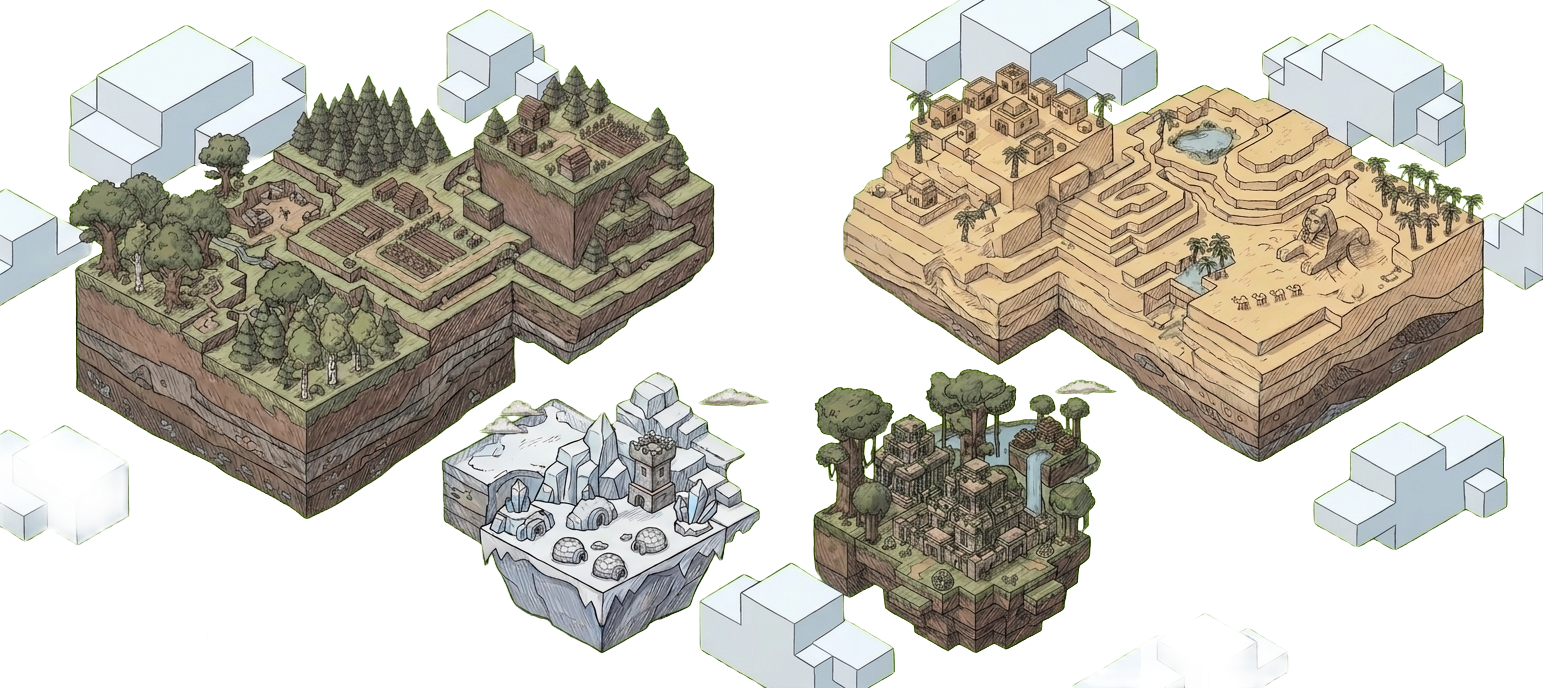
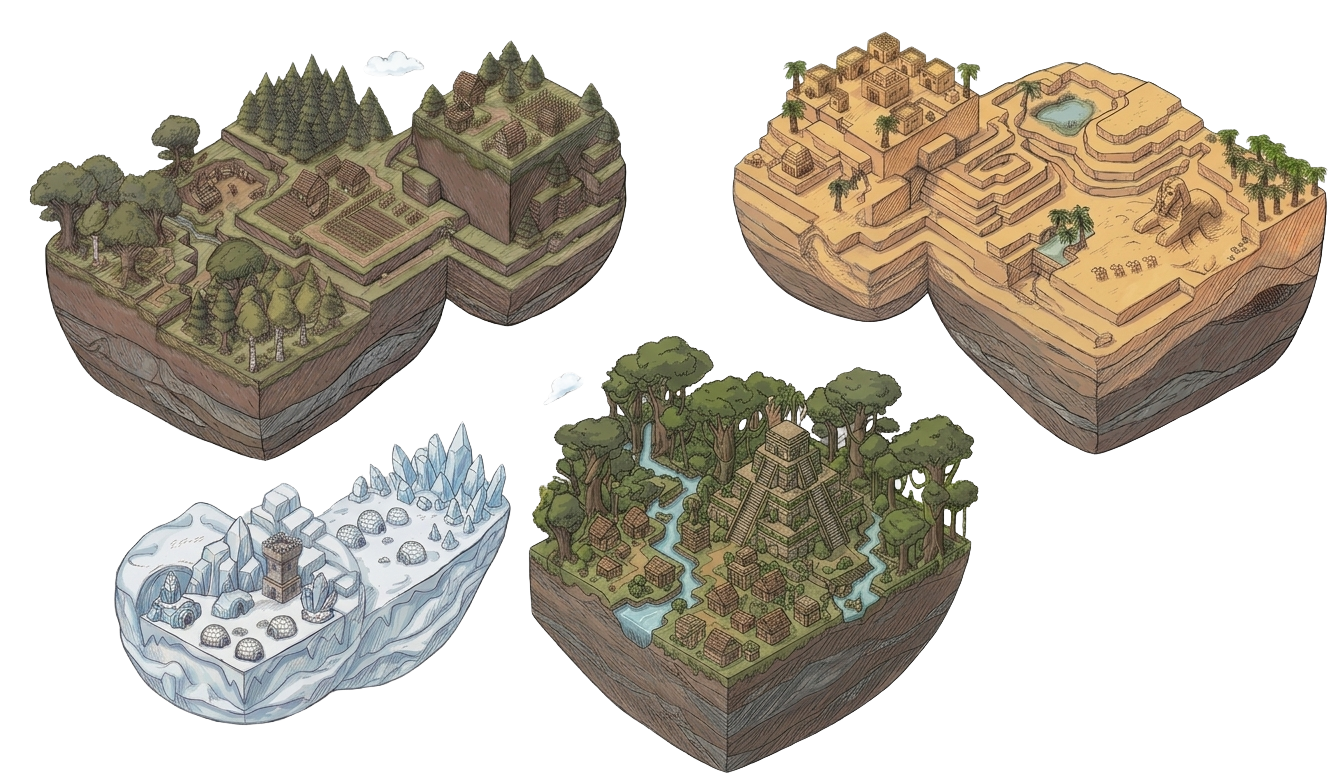
Events: removed-bg image + spring pop-in animation
- Swap to removed-background island image (transparent bg)
- Re-enable blurred fill technique: same image blurred/darkened fills
  the panel, sharp contained version sits centred on top
- cardPop keyframe: scale 0.86 + translateY + slight rotation, springs
  to 1.03 overshoot then settles — sketch/bounce vibe
- nth-child stagger delays so multiple cards cascade in

diff --git a/public/css/new-design.css b/public/css/new-design.css
@@ -195,36 +195,53 @@
 .countdown{font-family:"Baloo 2";font-weight:800;font-size:18px;color:#ffd56b;letter-spacing:1px}
 
 /* ---------- EVENT LIST — large feature cards ---------- */
+
+/* Spring pop-in animation — sketch/bounce vibe */
+@keyframes cardPop{
+  0%  { opacity:0; transform:scale(0.86) translateY(28px) rotate(-0.8deg); }
+  55% { opacity:1; transform:scale(1.03) translateY(-7px) rotate(0.3deg); }
+  75% { transform:scale(0.985) translateY(3px) rotate(0deg); }
+  100%{ opacity:1; transform:scale(1) translateY(0) rotate(0deg); }
+}
+
 .event-list{display:flex;flex-direction:column;gap:24px}
 .efeat{
   position:relative;overflow:hidden;border-radius:var(--radius);
   border:1px solid var(--line);background:var(--panel);box-shadow:var(--shadow);
   text-decoration:none;color:var(--text);display:block;
-  transition:transform .15s,border-color .15s,box-shadow .15s;
+  transition:transform .18s,border-color .18s,box-shadow .18s;
+  /* pop animation */
+  animation:cardPop 0.6s cubic-bezier(0.34,1.56,0.64,1) both;
 }
+/* stagger each card slightly if multiple */
+.efeat:nth-child(2){ animation-delay:0.08s }
+.efeat:nth-child(3){ animation-delay:0.16s }
+.efeat:nth-child(4){ animation-delay:0.24s }
+.efeat:nth-child(5){ animation-delay:0.32s }
 .efeat:hover{transform:translateY(-3px);border-color:rgba(255,255,255,.22);box-shadow:0 20px 50px rgba(0,0,0,.6)}
+
 .efeat-art{
   width:100%;height:460px;position:relative;overflow:hidden;
   background:#0c0d10;
 }
-/* Blurred fill layer — stretches image to fill, heavily blurred + darkened */
+/* Blurred fill layer — same image stretched, blurred + darkened to fill panel */
 .efeat-art-blur{
   position:absolute;inset:-30px;z-index:0;
   background-size:cover;background-position:center;
-  filter:blur(24px) brightness(0.35) saturate(1.4);
-  transform:scale(1.08);
+  filter:blur(28px) brightness(0.3) saturate(1.6);
+  transform:scale(1.1);
 }
-/* Sharp image fills the panel */
+/* Sharp contained image sits centred on top */
 .efeat-art img{
   position:relative;z-index:1;
   width:100%;height:100%;
-  object-fit:cover;object-position:center;
-  display:block;
+  object-fit:contain;object-position:center;
+  display:block;padding:16px 40px;
 }
 /* scrim so button is always readable */
 .efeat-art::after{
   content:'';position:absolute;inset:0;z-index:2;
-  background:linear-gradient(to top,rgba(8,9,12,.82) 0%,rgba(8,9,12,.05) 45%,transparent 100%);
+  background:linear-gradient(to top,rgba(8,9,12,.88) 0%,rgba(8,9,12,.1) 45%,transparent 100%);
   pointer-events:none;
 }
 /* the footer sits above the scrim */